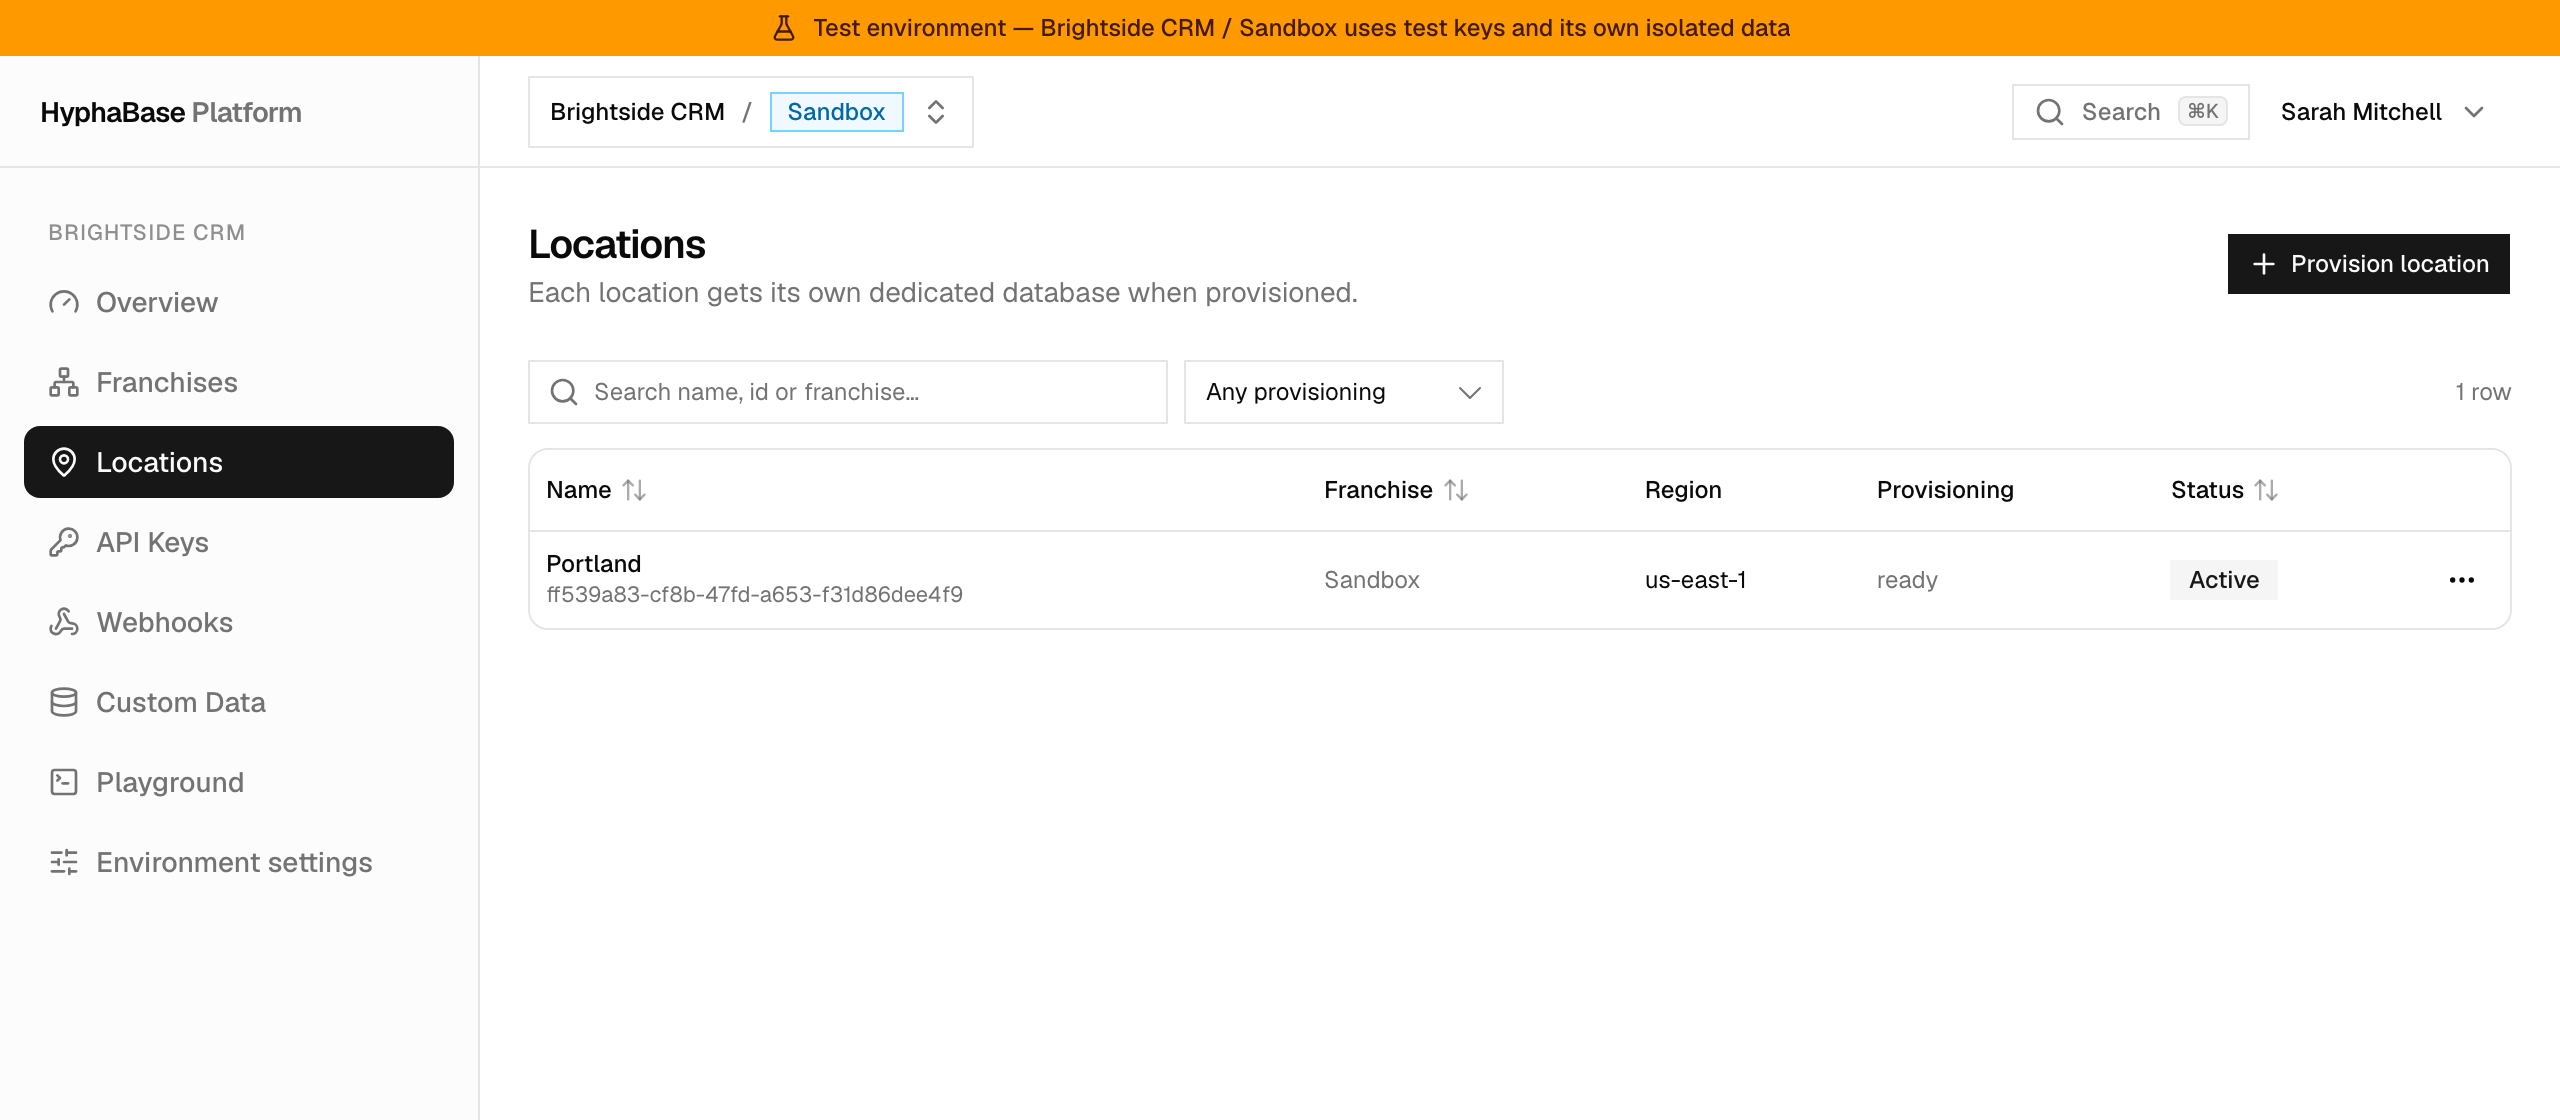
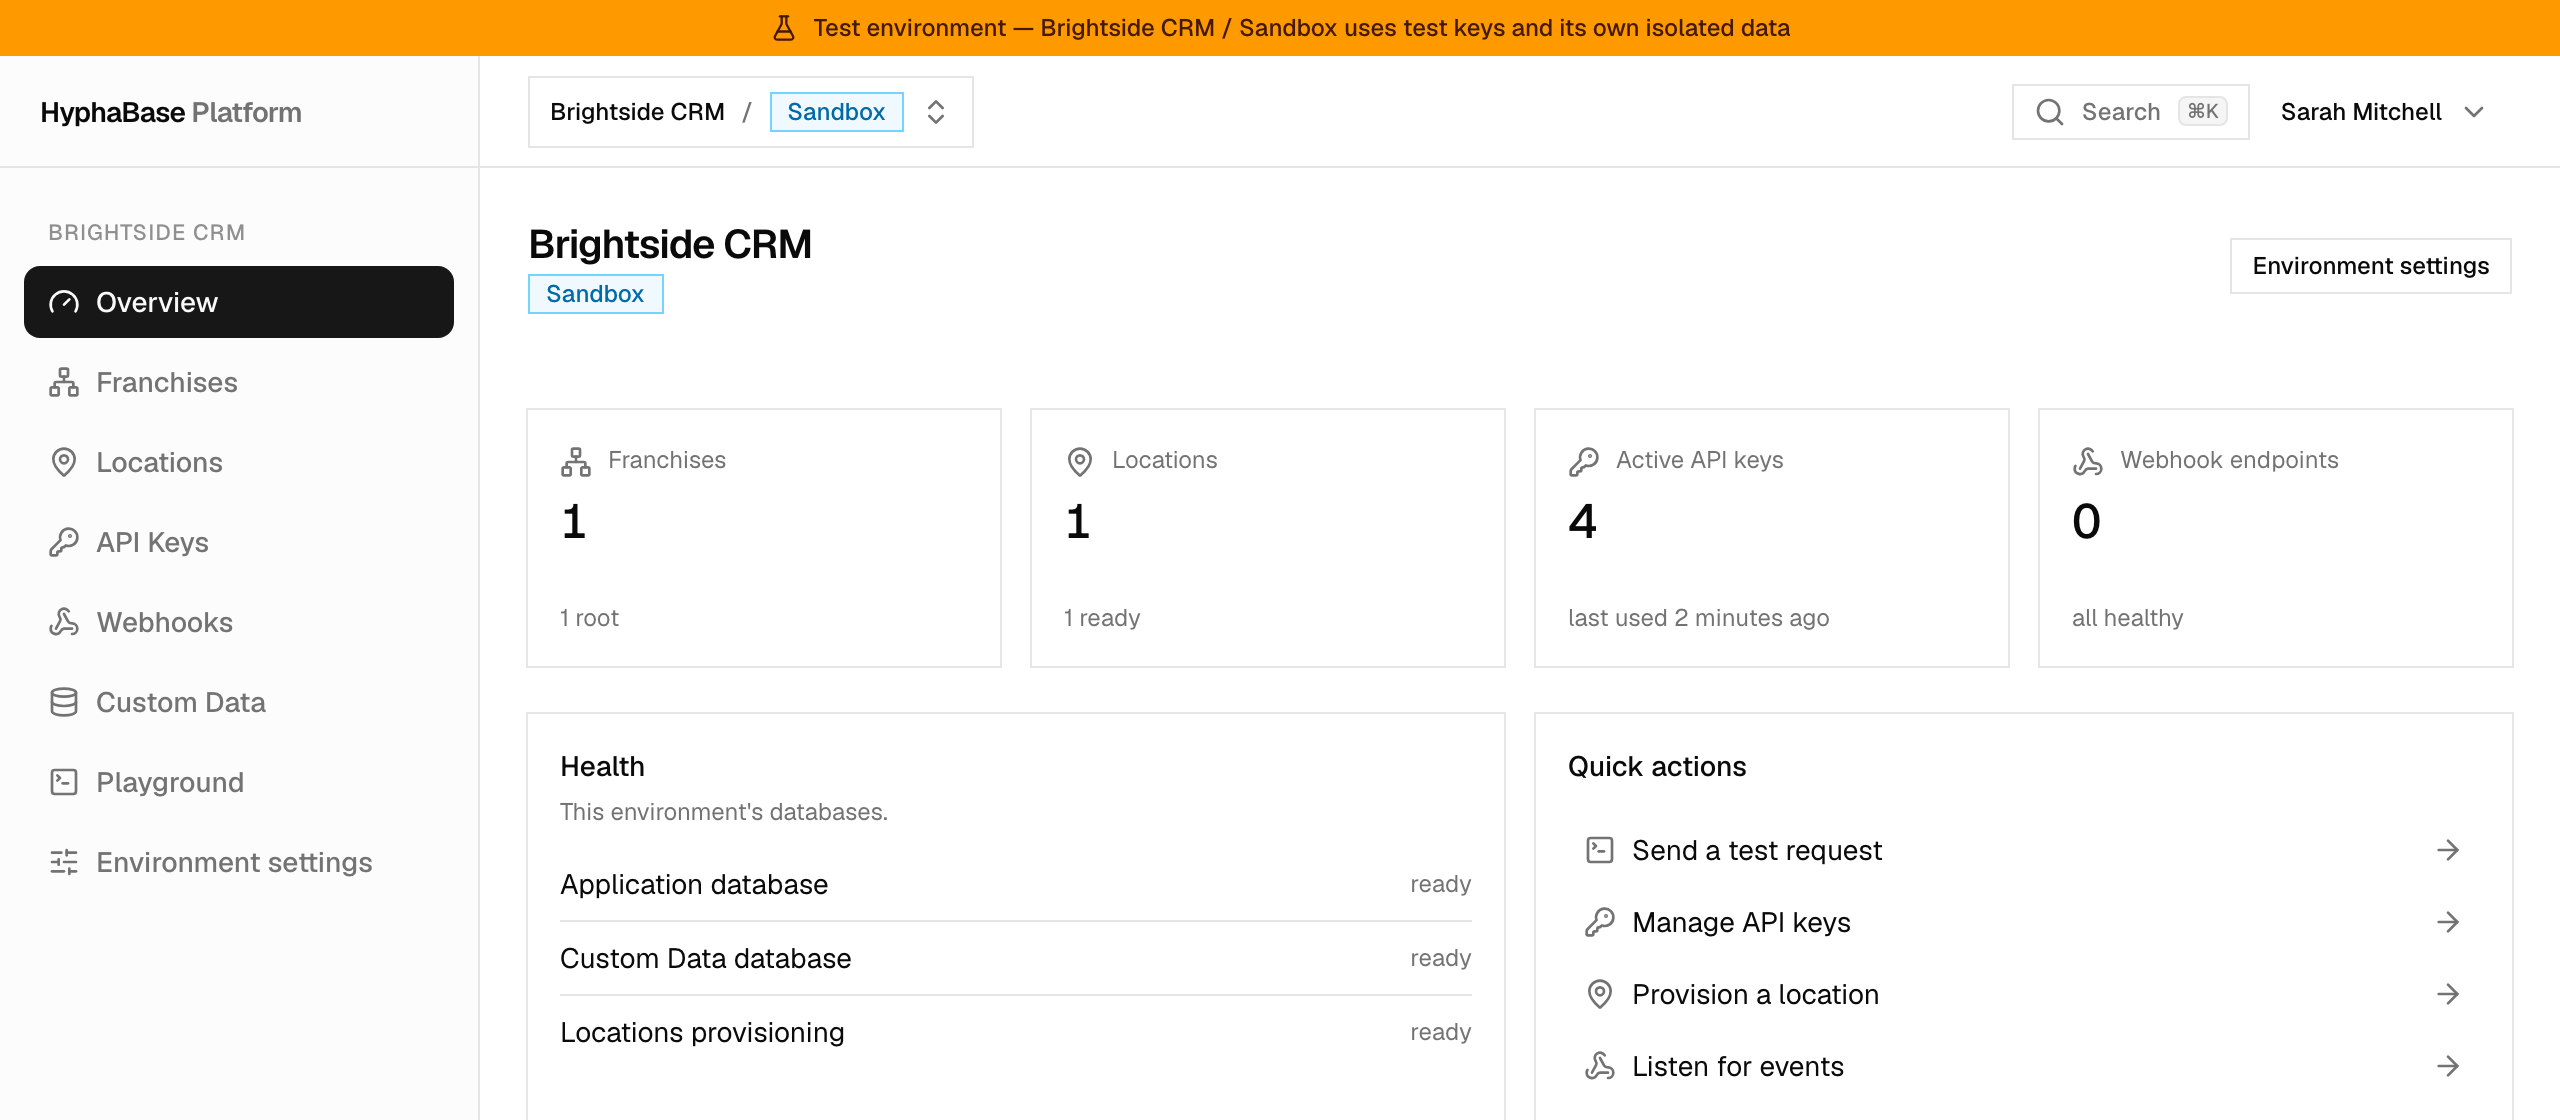
Episode 1 guide: show the Overview page for the ready location

diff --git a/episodes/episode-01-backend.md b/episodes/episode-01-backend.md
@@ -13,7 +13,7 @@ This episode happens in the HyphaBase console, so it has no code and no tag in t
 2. Add a location. The series calls it **Portland**.
 3. Wait for provisioning to finish. The location gets its own database.
 
-   ![The Locations page showing Portland with provisioning "ready"](img/episode-01/02-location-ready.png)
+   ![The app's Overview page: one location, ready, and "Locations provisioning" ready under Health](img/episode-01/02-location-ready.png)
 
 4. Create a secret API key for the app's sandbox environment. Episode 2 needs these scopes:
    - `data.collections.manage`
